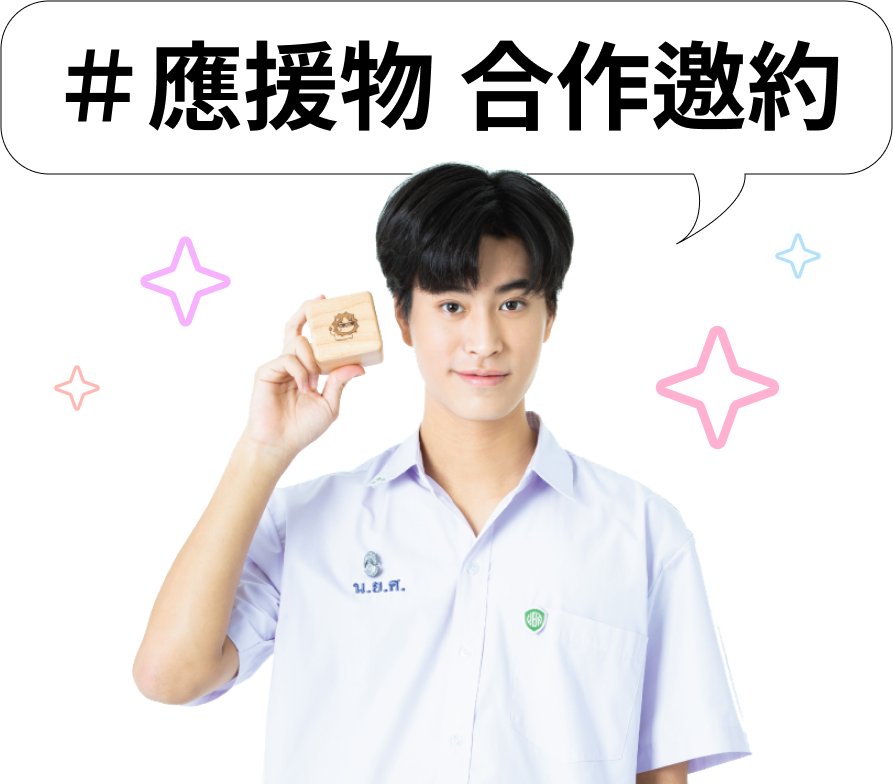
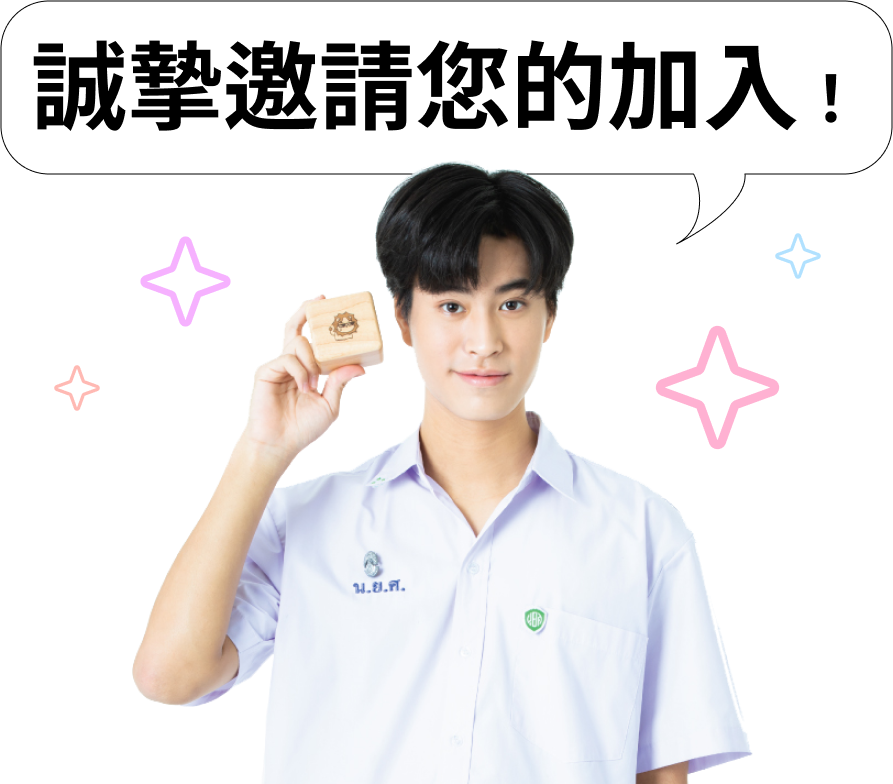
018RWD加入

Changed region(s): [[0.0302, 0.0306, 0.9373, 0.1837]]

diff --git a/gemini.html b/gemini.html
@@ -33,7 +33,8 @@
         body {
             width: 100%;
             margin: 0;
-            background-image: url(./gemini_img/backdraw.jpg);
+            background: repeating-linear-gradient(45deg, rgba(255,177,210,0.1), rgba(255,177,210,0.1) 50px,#FFF 50px, #FFF 100px);
+            background-size: 100% 100%;
             display: flex;
             justify-content: center;
             overflow-x: hidden;
@@ -42,6 +43,8 @@
         .wrap {
             width: 100%;
             position: relative;
+            overflow: hidden;
+            background-image: url(./gemini_img/backdraw.jpg);
         }
 
         .wrap.active {
@@ -243,7 +246,6 @@
         h1 {
             margin-bottom: 48px;
             font-weight: 600;
-            text-align: center;
         }
 
         h2 {
@@ -439,7 +441,6 @@
         #gift {
             position: relative;
             width: 100%;
-            text-align: center;
         }
 
         #gift img {
@@ -651,8 +652,7 @@
                 什麼！？妳有為Gemini的生日製作應援物嗎？<br><br>
                 我們打算募集大家製作的應援物放在展場內<br>
                 讓粉絲們能一次收穫滿滿的應援物ᦂ<br>
-                有意製作應援物的各位歡迎私訊我們！<br>
-                誠摯邀請您的加入!<br><br>
+                有意製作應援物的各位歡迎私訊我們！<br><br>
             </p>
             <img src="./gemini_img/mono_picture.png" width="100%" class="fadeInTrigger">
             <a href="https://docs.google.com/forms/d/e/1FAIpQLSfmFBUlRMxC_HihSMNtaim9_hHbNbOTmRPxZ72ZU6eOtELVWQ/viewform"
